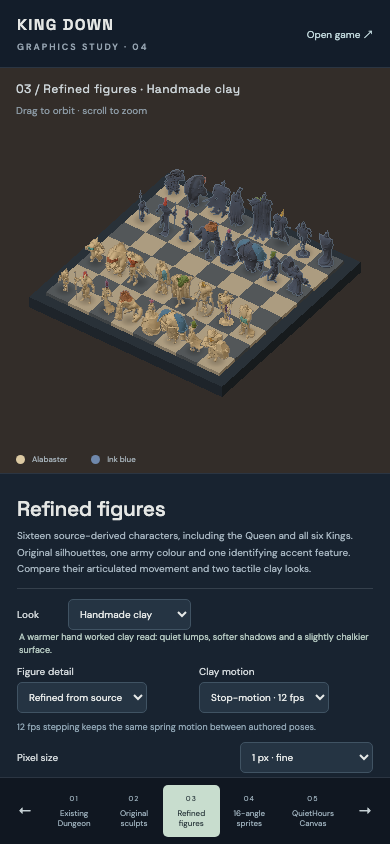
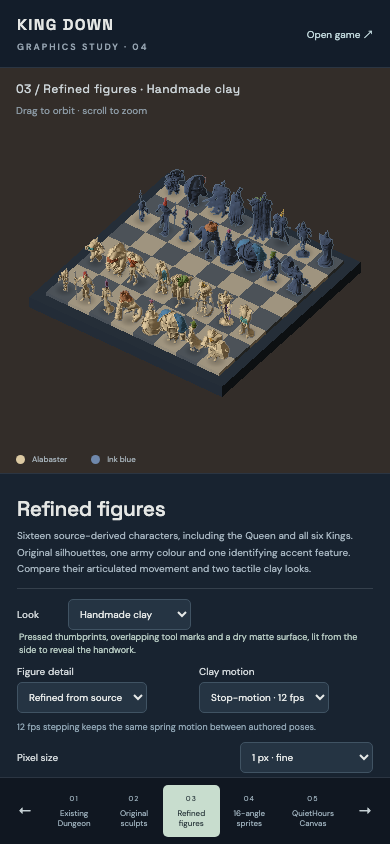
Make handmade clay visibly pressed and matte

diff --git a/src/render/prototype/ClayLook.ts b/src/render/prototype/ClayLook.ts
@@ -15,7 +15,7 @@ export const CLAY_LOOK_LABELS: Record<ClayLook, string> = {
 export const CLAY_LOOK_COPY: Record<ClayLook, string> = {
   current: 'The existing refined study material and pixel comparison.',
   plasticine: 'A smooth studio plasticine read: broad light, satin wax response and very fine rolled texture.',
-  handmade: 'A warmer hand worked clay read: quiet lumps, softer shadows and a slightly chalkier surface.',
+  handmade: 'Pressed thumbprints, overlapping tool marks and a dry matte surface, lit from the side to reveal the handwork.',
 };
 
 type ClaySpec = {
@@ -59,28 +59,69 @@ const SPECS: Record<Exclude<ClayLook, 'current'>, ClaySpec> = {
     sunPosition: [-4.5, 8, 6.5],
   },
   handmade: {
-    bumpScale: 0.032,
-    roughness: 0.9,
+    bumpScale: 0.075,
+    roughness: 0.99,
     roughnessVariation: 0.16,
-    clearcoat: 0.015,
+    clearcoat: 0,
     clearcoatRoughness: 0.72,
-    sheen: 0.2,
+    sheen: 0,
     sheenRoughness: 0.82,
     sheenColor: 0xc8b49d,
     noiseScale: 1.95,
     seed: 73,
     shadowOpacity: 0.82,
     background: 0x332d29,
-    hemiIntensity: 1.82,
+    hemiIntensity: 0.85,
     hemiColor: 0xffe8c8,
     groundColor: 0x625b55,
-    sunIntensity: 1.08,
-    sunPosition: [-3.3, 7.2, 4.2],
+    sunIntensity: 2.8,
+    sunPosition: [-6, 4.5, 5],
   },
 };
 
 type ClayTextures = { bumpMap: THREE.CanvasTexture; roughnessMap: THREE.CanvasTexture };
 const textureCache = new Map<ClayLook, ClayTextures>();
+const softGeometry = new WeakMap<THREE.BufferGeometry, THREE.BufferGeometry>();
+
+/** Round the lighting across the sculpt's hard normal seams. Weld by position
+ * across paint primitives, so shoulder/hood colour boundaries do not become seams.
+ * Positions and skin weights remain the original buffers; only normals differ. */
+export function softenClayNormals(figure: THREE.Object3D): void {
+  const meshes: THREE.Mesh[] = [];
+  figure.traverse(object => { if ((object as THREE.Mesh).isMesh) meshes.push(object as THREE.Mesh); });
+  const sums = new Map<string, THREE.Vector3>();
+  const key = (position: THREE.BufferAttribute | THREE.InterleavedBufferAttribute, i: number) =>
+    `${Math.round(position.getX(i) * 1e6)},${Math.round(position.getY(i) * 1e6)},${Math.round(position.getZ(i) * 1e6)}`;
+  if (meshes.some(mesh => !softGeometry.has(mesh.geometry))) {
+    for (const mesh of meshes) {
+      const { position, normal } = mesh.geometry.attributes;
+      for (let i = 0; i < position.count; i++) {
+        const id = key(position, i), sum = sums.get(id) ?? new THREE.Vector3();
+        sum.x += normal.getX(i); sum.y += normal.getY(i); sum.z += normal.getZ(i);
+        sums.set(id, sum);
+      }
+    }
+    for (const sum of sums.values()) sum.normalize();
+    for (const mesh of meshes) {
+      const original = mesh.geometry;
+      if (softGeometry.has(original)) continue;
+      const geometry = new THREE.BufferGeometry();
+      for (const [name, attribute] of Object.entries(original.attributes)) geometry.setAttribute(name, attribute);
+      geometry.setIndex(original.index);
+      geometry.groups = original.groups.map(group => ({ ...group }));
+      geometry.morphAttributes = original.morphAttributes;
+      geometry.morphTargetsRelative = original.morphTargetsRelative;
+      const { position, normal } = original.attributes;
+      const values = new Float32Array(normal.count * 3), n = new THREE.Vector3();
+      for (let i = 0; i < normal.count; i++) {
+        n.fromBufferAttribute(normal, i).lerp(sums.get(key(position, i))!, .85).normalize().toArray(values, i * 3);
+      }
+      geometry.setAttribute('normal', new THREE.BufferAttribute(values, 3));
+      softGeometry.set(original, geometry);
+    }
+  }
+  for (const mesh of meshes) mesh.geometry = softGeometry.get(mesh.geometry)!;
+}
 
 /** The source-derived study GLBs are mesh-only and intentionally have no UVs. Generate a
  * stable local projection once so the procedural maps affect their surfaces instead of
@@ -122,12 +163,9 @@ function makeTexture(kind: 'bump' | 'roughness', spec: ClaySpec): THREE.CanvasTe
     for (let x = 0; x < size; x++) {
       const broad = noise(spec.seed, x / spec.noiseScale, y / spec.noiseScale);
       const fine = noise(spec.seed + 19, x * 1.7, y * 1.7);
-      // The handmade ramp carries a stable, broad finger/tool sweep in addition to the
-      // grain. It is deliberately low amplitude so the sculpted silhouette stays legible.
-      const tool = spec.seed > 50 ? Math.sin((x * .17 + y * .04 + spec.seed) * 1.4) * .6 : 0;
       const value = kind === 'bump'
-        ? 128 + broad * 16 + fine * 5 + tool * 8
-        : 190 + broad * spec.roughnessVariation * 90 + fine * 8 + tool * 12;
+        ? 128 + broad * 16 + fine * 5
+        : 190 + broad * spec.roughnessVariation * 90 + fine * 8;
       const at = (y * size + x) * 4;
       const v = Math.max(0, Math.min(255, Math.round(value)));
       data[at] = v;
@@ -144,11 +182,91 @@ function makeTexture(kind: 'bump' | 'roughness', spec: ClaySpec): THREE.CanvasTe
   return texture;
 }
 
+/** Periodic pressed-clay relief. Broad oval depressions and fingerprint arcs
+ * carry the material identity; fine grain alone disappears at board size. */
+function handmadeTextures(): ClayTextures {
+  const size = 256;
+  const canvases = [document.createElement('canvas'), document.createElement('canvas')];
+  const data = canvases.map(canvas => {
+    canvas.width = canvas.height = size;
+    return canvas.getContext('2d')!.createImageData(size, size);
+  });
+  const prints = [[.26, .30, .30, .18, -.52], [.76, .75, .22, .31, .42]];
+  for (let y = 0; y < size; y++) for (let x = 0; x < size; x++) {
+    const u = (x + .5) / size, v = (y + .5) / size;
+    let height = .57 + .025 * Math.sin(u * Math.PI * 2) * Math.cos(v * Math.PI * 4);
+    for (const [cx, cy, rx, ry, angle] of prints) {
+      const dx = u - cx - Math.round(u - cx), dy = v - cy - Math.round(v - cy);
+      const a = (dx * Math.cos(angle) - dy * Math.sin(angle)) / rx;
+      const b = (dx * Math.sin(angle) + dy * Math.cos(angle)) / ry;
+      const r = Math.hypot(a, b) * (1 + .065 * Math.sin(Math.atan2(b, a) * 3));
+      const press = Math.exp(-r * r * 2.4);
+      const lip = Math.exp(-Math.pow(r - 1, 2) * 38);
+      const ridges = Math.sin(r * 62 + a * 2) * .009 * Math.exp(-r * r * 3);
+      height += -.29 * press + .045 * lip + ridges;
+    }
+    // A few shallow dragging traces cross the rolled areas between thumbprints.
+    const sweep = Math.sin((u + .07 * Math.sin(v * Math.PI * 2)) * Math.PI * 6);
+    height -= .016 * Math.pow(Math.max(0, sweep), 18);
+    const at = (y * size + x) * 4;
+    const values = [Math.round(255 * height), Math.round(248 + 6 * Math.sin(u * Math.PI * 2) * Math.sin(v * Math.PI * 2))];
+    data.forEach((image, i) => {
+      image.data[at] = image.data[at + 1] = image.data[at + 2] = values[i];
+      image.data[at + 3] = 255;
+    });
+  }
+  const maps = canvases.map((canvas, i) => {
+    canvas.getContext('2d')!.putImageData(data[i], 0, 0);
+    const texture = new THREE.CanvasTexture(canvas);
+    texture.wrapS = texture.wrapT = THREE.RepeatWrapping;
+    return texture;
+  });
+  return { bumpMap: maps[0], roughnessMap: maps[1] };
+}
+
+/** Map across the sculpt's bind-space XYZ, including material boundaries. The
+ * coordinates follow the rig; the physical-height gradient is stable under zoom. */
+function pressedClayShader(material: THREE.MeshPhysicalMaterial): void {
+  material.customProgramCacheKey = () => 'pressed-clay-v2';
+  material.onBeforeCompile = shader => {
+    shader.vertexShader = 'varying vec3 vClayPosition; varying vec3 vClayNormal;\n' + shader.vertexShader;
+    shader.vertexShader = shader.vertexShader.replace('#include <begin_vertex>', '#include <begin_vertex>\nvClayPosition = position; vClayNormal = normal;');
+    shader.fragmentShader = 'varying vec3 vClayPosition; varying vec3 vClayNormal;\n' + shader.fragmentShader;
+    const height = `
+      float pressedHeight(vec3 p) {
+        vec3 w = pow(abs(normalize(vClayNormal)), vec3(6.));
+        w /= max(.0001, w.x + w.y + w.z);
+        p *= 2.6;
+        return dot(w, vec3(texture2D(bumpMap, p.yz).r,
+                           texture2D(bumpMap, p.zx).r,
+                           texture2D(bumpMap, p.xy).r));
+      }
+      vec2 dHdxy_fwd() {
+        float h = pressedHeight(vClayPosition);
+        float span = max(length(dFdx(vClayPosition)), length(dFdy(vClayPosition)));
+        float curvature = max(length(dFdx(vClayNormal)), length(dFdy(vClayNormal))) / max(span, .00001);
+        float strength = mix(1., .18, smoothstep(7., 32., curvature));
+        return strength * bumpScale * vec2(pressedHeight(vClayPosition + dFdx(vClayPosition)) - h,
+                                pressedHeight(vClayPosition + dFdy(vClayPosition)) - h);
+      }
+    `;
+    const chunk = THREE.ShaderChunk.bumpmap_pars_fragment
+      .replace(/vec2 dHdxy_fwd\(\) \{[\s\S]*?\n\t\}/, height)
+      .replace('normalize( dFdx( surf_pos.xyz ) )', 'dFdx( surf_pos.xyz )')
+      .replace('normalize( dFdy( surf_pos.xyz ) )', 'dFdy( surf_pos.xyz )');
+    shader.fragmentShader = shader.fragmentShader.replace('#include <bumpmap_pars_fragment>', chunk);
+    // The generic roughness map multiplies roughness down. Keep this look dry,
+    // and sample in the same sculpt space as the impressions rather than old UVs.
+    shader.fragmentShader = shader.fragmentShader.replace('#include <roughnessmap_fragment>',
+      'float roughnessFactor = .95 + .04 * texture2D(roughnessMap, vClayPosition.xy * 2.6).g;');
+  };
+}
+
 function texturesFor(look: Exclude<ClayLook, 'current'>): ClayTextures {
   const cached = textureCache.get(look);
   if (cached) return cached;
   const spec = SPECS[look];
-  const textures = { bumpMap: makeTexture('bump', spec), roughnessMap: makeTexture('roughness', spec) };
+  const textures = look === 'handmade' ? handmadeTextures() : { bumpMap: makeTexture('bump', spec), roughnessMap: makeTexture('roughness', spec) };
   textureCache.set(look, textures);
   return textures;
 }
@@ -190,6 +308,10 @@ export function materialForLook({ color, role = '', vertexColors = false, look =
   });
   clay.name = role;
   clay.userData.clayLook = look;
+  if (look === 'handmade') {
+    clay.specularIntensity = .22;
+    pressedClayShader(clay);
+  }
   return clay;
 }
 

diff --git a/src/render/prototype/PieceContourPass.ts b/src/render/prototype/PieceContourPass.ts
@@ -11,7 +11,7 @@ export class PieceContourPass extends Pass {
   readonly ids = new THREE.WebGLRenderTarget(1, 1, { minFilter: THREE.NearestFilter, magFilter: THREE.NearestFilter });
   private pieces = new Map<THREE.Object3D, number>();
   private idMaterial = new THREE.ShaderMaterial({
-    uniforms: { pieceId: { value: 0 }, alphaMap: { value: null }, hasAlpha: { value: false }, uvTransform: { value: new THREE.Matrix3() } },
+    uniforms: { pieceId: { value: 0 }, alphaMap: { value: null }, hasAlpha: { value: false }, ignoreSurface: { value: false }, uvTransform: { value: new THREE.Matrix3() } },
     vertexShader: `varying vec2 vUv; uniform mat3 uvTransform;
       #include <skinning_pars_vertex>
       void main(){
@@ -21,8 +21,8 @@ export class PieceContourPass extends Pass {
         #include <skinning_vertex>
         gl_Position=projectionMatrix*modelViewMatrix*vec4(transformed,1.);
       }`,
-    fragmentShader: `varying vec2 vUv; uniform float pieceId; uniform sampler2D alphaMap; uniform bool hasAlpha;
-      void main(){if(hasAlpha && texture2D(alphaMap,vUv).a<.3)discard; gl_FragColor=vec4(pieceId,0.,0.,1.);}`,
+    fragmentShader: `varying vec2 vUv; uniform float pieceId; uniform sampler2D alphaMap; uniform bool hasAlpha,ignoreSurface;
+      void main(){if(ignoreSurface)discard; if(hasAlpha && texture2D(alphaMap,vUv).a<.3)discard; gl_FragColor=vec4(pieceId,0.,0.,1.);}`,
     side: THREE.DoubleSide,
   });
   private composite = new THREE.ShaderMaterial({
@@ -70,6 +70,8 @@ export class PieceContourPass extends Pass {
       const uniforms = this.idMaterial.uniforms;
       uniforms.pieceId.value = (this.pieces.get(object) ?? 0) / 255;
       const material = (object as THREE.Mesh).material as THREE.MeshBasicMaterial;
+      // Ground-shadow decals must not erase the boots from the ID mask.
+      uniforms.ignoreSurface.value = !this.pieces.has(object) && material?.transparent === true && material.depthWrite === false;
       const map = material?.map;
       uniforms.hasAlpha.value = Boolean(map && material.alphaTest > 0);
       if (map) { map.updateMatrix(); uniforms.alphaMap.value = map; uniforms.uvTransform.value.copy(map.matrix); }

diff --git a/src/render/prototype/study.ts b/src/render/prototype/study.ts
@@ -10,7 +10,7 @@ import { loadModels } from '../voxels';
 import { fromFen } from '../../rules/setup';
 import { PieceContourPass, type ContourMode } from './PieceContourPass';
 import { WalkPreview, type ClayCadence } from './WalkPreview';
-import { CLAY_LOOK_COPY, CLAY_LOOK_LABELS, CLAY_LOOKS, type ClayLook, applyLookLighting, ensureSurfaceUv, materialForLook } from './ClayLook';
+import { CLAY_LOOK_COPY, CLAY_LOOK_LABELS, CLAY_LOOKS, type ClayLook, applyLookLighting, ensureSurfaceUv, materialForLook, softenClayNormals } from './ClayLook';
 import { CAST, character, defaultCharacter } from './CastCatalog';
 import './study.css';
 
@@ -70,6 +70,7 @@ function visual(name:string,side:number,rebuilt:boolean):THREE.Group {
  const refined=rebuilt&&variant==='rebuilt'&&figureDetail==='refined';
  const key=refined?'rebuilt-'+defaultCharacter(name):pair&&rebuilt?(variant==='quiet'||figureDetail==='blockout'?'blockout-':'rebuilt-')+name:'original-'+name;
  const g=clone(models.get(key)!) as THREE.Group;
+ if(variant==='rebuilt'&&look==='handmade')softenClayNormals(g);
  g.traverse(o=>{if((o as THREE.Mesh).isMesh){const m=o as THREE.Mesh;ensureSurfaceUv(m.geometry);const mats=Array.isArray(m.material)?m.material:[m.material];const replaced=mats.map(x=>material(x.name,name,side,m.geometry.hasAttribute('color')));m.material=Array.isArray(m.material)?replaced:replaced[0];m.castShadow=false;m.receiveShadow=false;if((m as THREE.SkinnedMesh).isSkinnedMesh)m.frustumCulled=false;}});
  g.userData.modelKey=key;return g;
 }

diff --git a/docs/graphics-prototype/clay-looks.md b/docs/graphics-prototype/clay-looks.md
@@ -4,7 +4,7 @@ The study now has a `Look` control with three URL-backed values:
 
 - `current` keeps the existing refined material and lighting for comparison.
 - `plasticine` uses a warm broad studio rig, a satin wax response, very fine procedural bump, and high contact-shadow opacity.
-- `handmade` uses a warmer brown studio rig, a chalkier rough response, stronger low-frequency bump, a stable low-amplitude finger/tool sweep, and softer contact shadows.
+- `handmade` uses broad pressed thumb impressions, fingerprint arcs, shallow dragging traces, softened shading across hard sculpt seams, and a dry matte response. A lower side light reveals these forms. Fine curved features receive less relief so faces, fingers and small ornaments stay legible.
 
 The two clay looks are live Three.js materials. They keep the existing colour roles, so the Guard's steel-blue shoulder plates, the Archer's green hood, and the ivory/ink-blue army bodies remain intact. `src/render/prototype/ClayLook.ts` owns the look IDs, labels, procedural surface maps, physical material settings, and lighting presets. `study.ts` applies the looks to all sixteen refined designs. The other rendering comparisons retain their original materials and lighting.
 
@@ -14,15 +14,23 @@ The URL state is explicit, for example:
 ?study&variant=rebuilt&scene=pair&pixels=0.5&contours=adaptive&detail=refined&look=plasticine
 ```
 
-The captures below are the same Guard + Archer scene at the same camera and sample settings:
+## Handmade surface correction — 2026-09-21
 
-- [Polished plasticine](captures/clay-plasticine-pair.png)
-- [Handmade clay](captures/clay-handmade-pair.png)
-- [Handmade clay, stop-motion poke](captures/clay-handmade-poke.png)
+The owner correctly found the first handmade look almost indistinguishable from polished plasticine. Both used subtle noise and similar broad lighting; multiplying the handmade roughness by a darker map also made it smoother than intended. The updated handmade treatment replaces that surface path, while the polished option remains the comparison.
 
-The captures were made from the isolated Vite server on port 5191. Browser checks confirmed that each look loads from its URL, the control label follows the selected look, the walk control stays enabled for both articulated figures, and the walk state toggles while the figures animate in place. A fresh stop-motion URL also enabled the poke control. The capture harness reported no page errors or console errors.
+Fixed-camera Guard comparisons at 0.5 px:
 
-The clay materials add two 96×96 procedural maps per look and reuse each pair across all roles. This keeps the runtime cost bounded while making the surface response visibly different from a flat recolour. The existing contour pass remains available and continues to use the same skinned meshes.
+- [Previous handmade treatment](captures/clay-surface-before-guard.png)
+- [Polished plasticine](captures/clay-surface-polished-guard.png)
+- [New pressed handmade surface](captures/clay-surface-handmade-guard.png)
+- [New surface while walking](captures/clay-surface-handmade-walk.png)
+- [Archer](captures/clay-surface-handmade-archer.png) · [complete cast](captures/clay-surface-handmade-cast.png) · [phone layout](captures/clay-surface-mobile-cast.png)
+
+Handmade uses two shared 256×256 maps. The relief is projected across bind-space XYZ, including paint boundaries, so impressions follow the rig. Physical surface gradients keep their strength under zoom. The shader reduces relief on highly curved areas, keeps effective roughness near 0.99, and removes clearcoat and sheen. Cached normal buffers soften shading across coincident sculpt vertices; positions, skin weights, silhouettes, paint roles and authored movement are unchanged. Polished retains its two shared 96×96 maps. Handmade adds roughly 0.5 MiB of base texture storage (0.67 MiB with mipmaps), plus its cached normal buffers; triplanar relief also adds fragment sampling cost. This is not a device-performance benchmark.
+
+`node tools/graphics-prototype/verify_clay_surface.mjs` checks material changes, actual relief contribution with identical lighting, source-buffer preservation, walking, all 32 figures, phone layout and switching back to polished. [Saved evidence](clay-surface-verification.json). The relief ablation also exposed ground-shadow decals erasing boot pixels from the ID pass; transparent non-depth-writing scenery now discards in that pass. Beauty and ID coverage agree at the feet, with no changed raw background pixels in the relief comparison. The TypeScript/Vite build and all 87 browser checks passed after this correction (42 rendering, 37 cast, 8 surface), with zero browser errors. These checks establish rendering behaviour, not the owner's visual acceptance.
+
+The earlier pair and poke captures remain historical evidence of the initial motion implementation, not the current surface treatment.
 
 The direction takes inspiration from the tactile miniature sets and theatrical lighting documented by the Neverhood production team: [Welcome to Neverhood](https://www.awn.com/animationworld/welcome-neverhood) and [Our Animation Process](https://www.awn.com/animationworld/our-animation-process). The study uses those references as an art direction cue for tool marks, imperfect surfaces, expressive poses and warm diorama light; it does not copy Neverhood assets.
 

diff --git a/docs/graphics-prototype/README.md b/docs/graphics-prototype/README.md
@@ -33,7 +33,9 @@ New pieces use 9–11 deform bones with baked `Walk` clips. Gaits respect the po
 
 Fourteen additional exports and their editable rigs are in `complete-cast.blend`; the approved Guard/Archer remain in `rebuilt-pieces.blend`. Rebuild the new cast with Blender `--background --python tools/graphics-prototype/build_roster.py`. `sculpt_surface.py` shares the original surface-cleanup code; authored landmarks/paint volumes live in `roster_profiles.py`. Source quads are triangulated before paint cuts so boundaries preserve the surface. The Paladin retains its full usable source detail: reduction destroyed its extremities, and a height-preservation assertion now catches that failure.
 
-The sixteen models total about **19.8 MiB** of uncompressed GLB files. The 32-figure cast scene draws **761,446 figure triangles**, plus board/effects; the pair route loads the extra cast only when needed. Two shared 96×96 procedural maps per clay look provide stable surface variation. Existing comparison modes retain their original materials and lighting. This does not establish performance on older phones; device profiling and appropriate LODs are still needed before production adoption.
+The sixteen models total about **19.8 MiB** of uncompressed GLB files. The 32-figure cast scene draws **761,446 figure triangles**, plus board/effects; the pair route loads the extra cast only when needed. Polished uses two shared 96×96 procedural maps. Handmade now uses two shared 256×256 pressed-relief maps, triplanar projection and cached softened normal buffers; geometry positions and rigs are unchanged. Existing comparison modes retain their original materials and lighting. This does not establish performance on older phones; device profiling and appropriate LODs are still needed before production adoption.
+
+The [handmade correction and fixed-camera comparisons](clay-looks.md#handmade-surface-correction--2026-09-21) address the first look’s resemblance to polished plasticine. `node tools/graphics-prototype/verify_clay_surface.mjs` records eight additional surface/geometry/animation checks.
 
 [Clay appearances and movement](clay-looks.md) document the Neverhood reference, material options and lightweight spring motion. `Poke / squish clay` provides an interactive deformation experiment. The clay effect is spring-driven secondary animation, not soft-body collision simulation.
 
